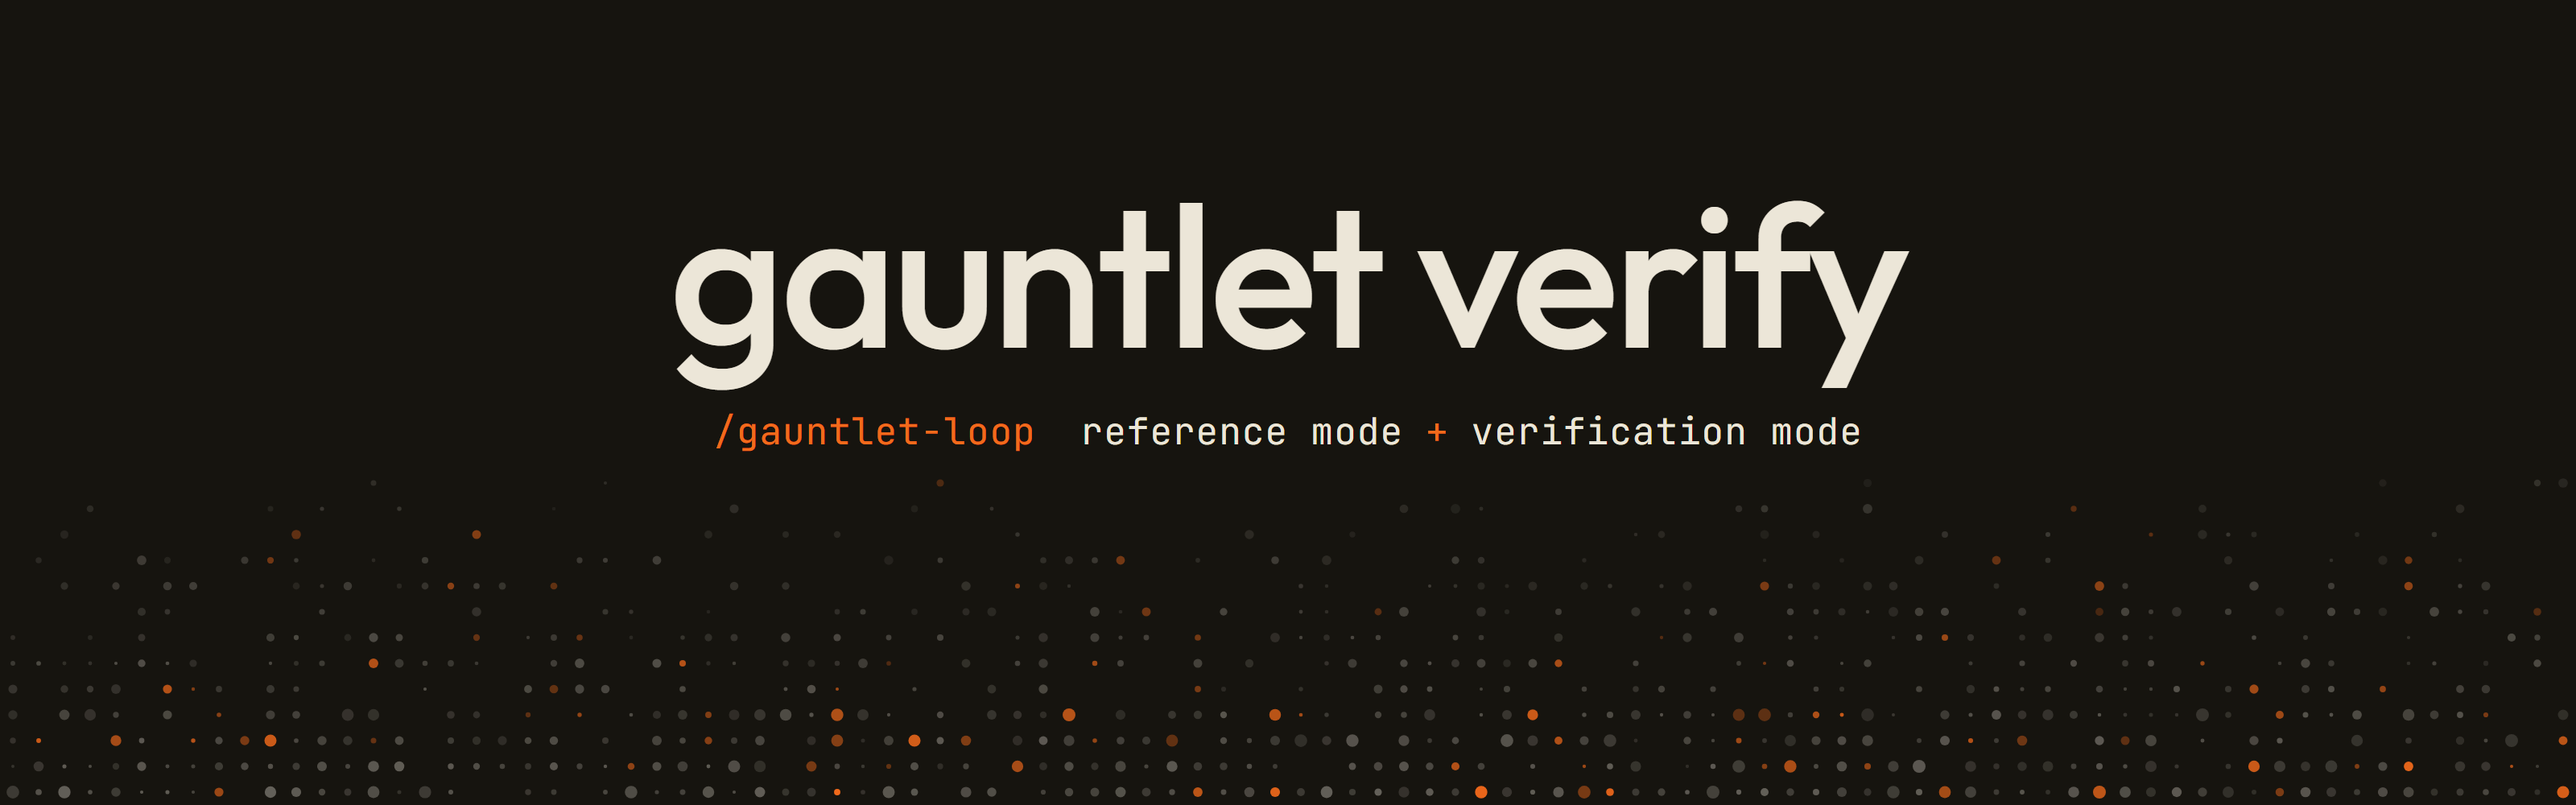
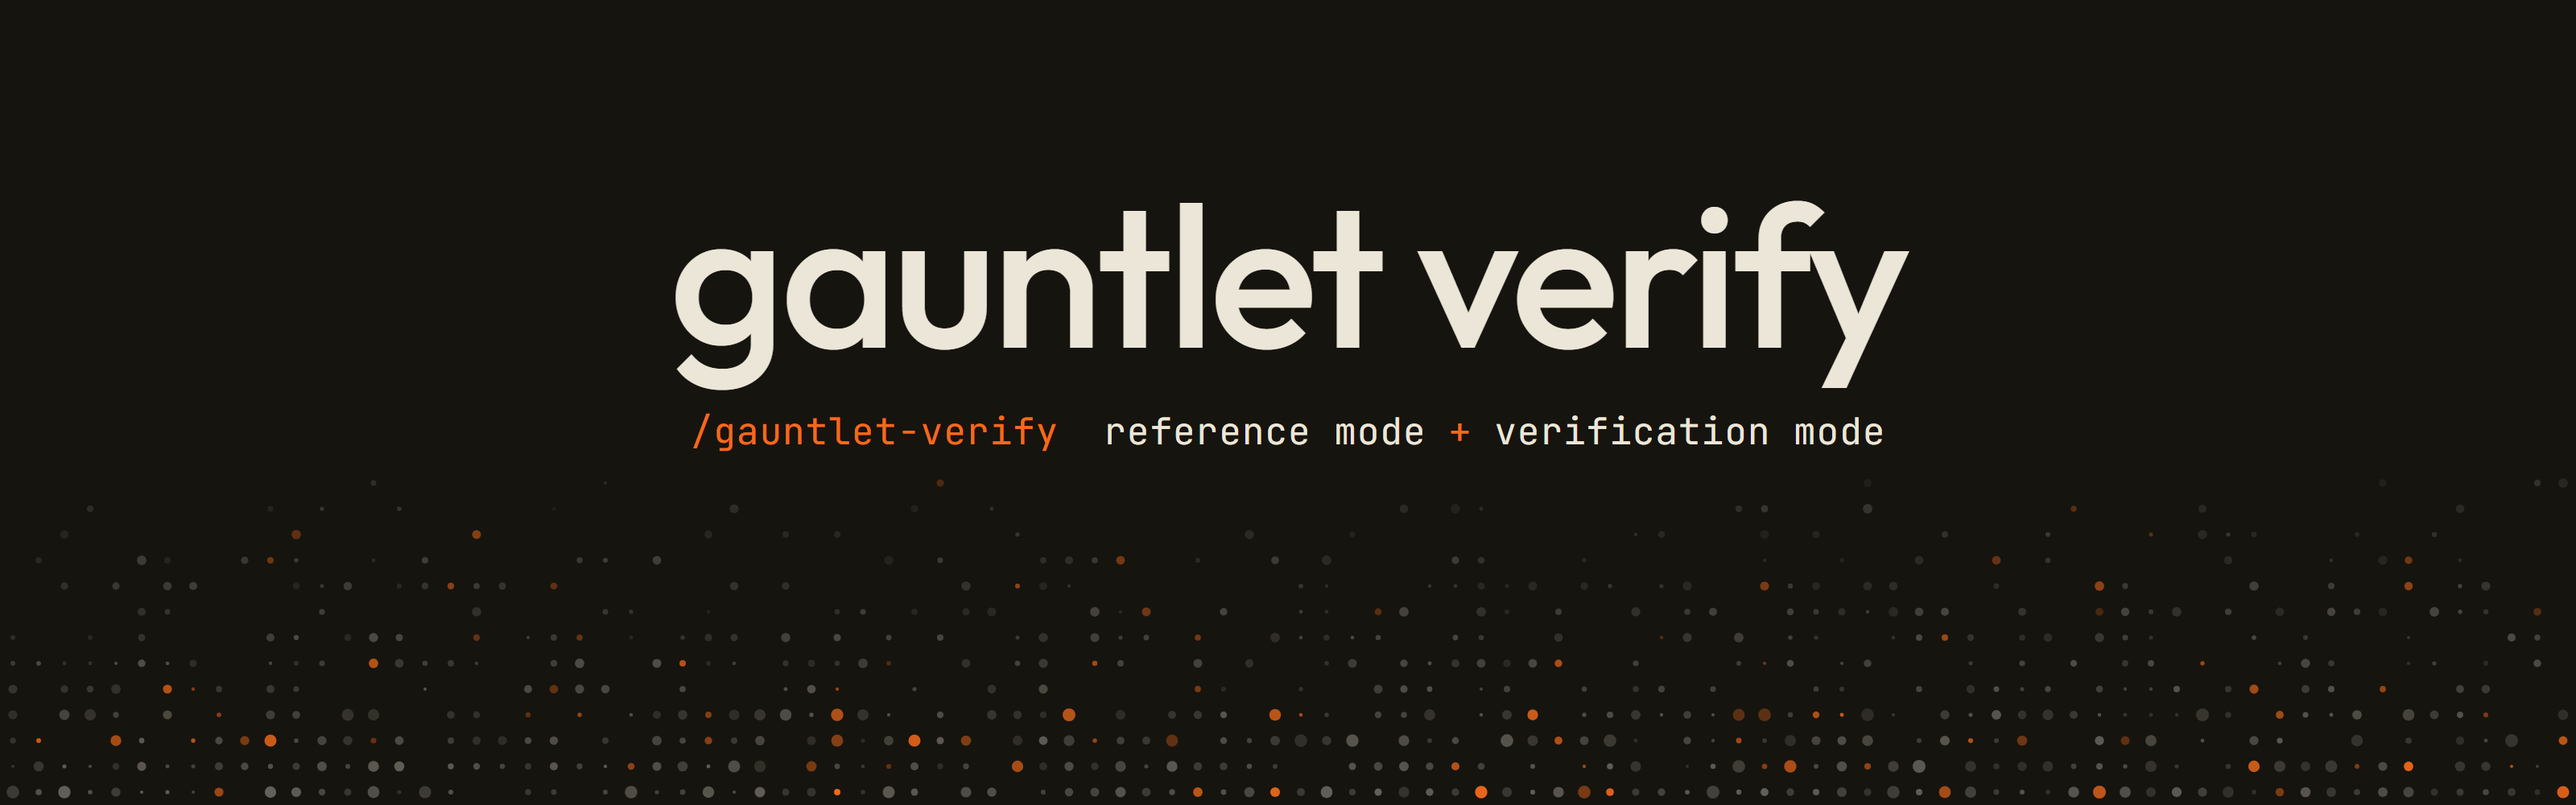
Rename the skill to gauntlet-verify
The skill folder, frontmatter name, and command now match the repo, so
the skill installs beside upstream's gauntlet-loop instead of replacing
it. README install commands, the upstream comparison, the banner, and
the changelog follow the rename.

Changed region(s): [[0.25, 0.527, 0.75, 0.558]]

diff --git a/assets/src/banner.html b/assets/src/banner.html
@@ -20,7 +20,7 @@
 </head>
 <body>
   <div class="title">gauntlet verify</div>
-  <div class="modes"><i class="cmd">/gauntlet-loop</i><b>reference mode</b><i>+</i><b>verification mode</b></div>
+  <div class="modes"><i class="cmd">/gauntlet-verify</i><b>reference mode</b><i>+</i><b>verification mode</b></div>
   <canvas id="c" width="3200" height="420"></canvas>
 <script>
   // Deterministic dot field: gray for claims that survived, orange for kills.

diff --git a/README.md b/README.md
@@ -15,7 +15,7 @@ The Gauntlet Loop is [Matt Shumer's](https://github.com/mshumer) technique. This
 
 It needs an agent that can run subagents or fresh contexts (sequential works), a browser or screenshot tool when the reference is a live page, and web access for verification mode. One full-formation round, measured once, used about 325k subagent tokens, so the skill writes a ceiling before it spends.
 
-The skill folder is named `gauntlet-loop`, the same as upstream, so install one or the other. Copying this folder over an upstream install replaces it. If one copy is in `~/.claude/skills` and the other in a project's `.claude/skills`, Claude Code runs the personal one.
+The skill is named `gauntlet-verify`, so it installs beside upstream's `gauntlet-loop` without replacing it. Keep only one of the two enabled, or both may answer the same request.
 
 ```bash
 git clone https://github.com/EauDoon/gauntlet-verify
@@ -24,25 +24,25 @@ git clone https://github.com/EauDoon/gauntlet-verify
 For every project (personal skills):
 
 ```bash
-mkdir -p ~/.claude/skills && cp -r gauntlet-verify/.claude/skills/gauntlet-loop ~/.claude/skills/
+mkdir -p ~/.claude/skills && cp -r gauntlet-verify/.claude/skills/gauntlet-verify ~/.claude/skills/
 ```
 
 For one project:
 
 ```bash
-mkdir -p your-project/.claude/skills && cp -r gauntlet-verify/.claude/skills/gauntlet-loop your-project/.claude/skills/
+mkdir -p your-project/.claude/skills && cp -r gauntlet-verify/.claude/skills/gauntlet-verify your-project/.claude/skills/
 ```
 
-For the Claude apps, turn on code execution, zip the `gauntlet-loop` folder itself so the folder sits at the zip root, and upload the zip under Customize > Skills. The apps trigger it from its description.
+For the Claude apps, turn on code execution, zip the `.claude/skills/gauntlet-verify` folder itself so the folder sits at the zip root, and upload the zip under Customize > Skills. The apps trigger it from its description.
 
 ```bash
-cd gauntlet-verify/.claude/skills && zip -r gauntlet-loop.zip gauntlet-loop
+cd gauntlet-verify/.claude/skills && zip -r gauntlet-verify.zip gauntlet-verify
 ```
 
 In Claude Code, call it by name or just work. It fires on its own when a build in progress falls short of a named reference, and on heavy research where being wrong costs money or reputation, or the result feeds a public statement or a decision someone will act on.
 
 ```
-/gauntlet-loop build me a pricing page as good as Linear's
+/gauntlet-verify build me a pricing page as good as Linear's
 ```
 
 ```
@@ -145,11 +145,12 @@ Light-formation costs stay estimates, and full verification mode stays unmeasure
 | Spend | Fan out every time; a budget line only if the user names one | Light or full formation set by stakes; a ceiling always written first |
 | Stop | Ours wins the blind comparison, or the user stops | Only identity tells remain, the delta stops, the user stops, or the ceiling parks it |
 | Memory | None | One log line per run, so estimates become measurements |
+| Skill name | `gauntlet-loop` | `gauntlet-verify`, so it does not overwrite upstream |
 
 ## Repo layout
 
 ```
-.claude/skills/gauntlet-loop/
+.claude/skills/gauntlet-verify/
 └── SKILL.md              # the whole skill, one file
 .github/workflows/
 └── check.yml             # runs the check on pushes to main and on pull requests

diff --git a/.claude/skills/gauntlet-verify/SKILL.md b/.claude/skills/gauntlet-verify/SKILL.md
@@ -1,11 +1,11 @@
 ---
-name: gauntlet-loop
+name: gauntlet-verify
 description: "Build-to-a-bar loop and isolated verifier formation for work that cannot be wrong. Use WHENEVER a build misses a named bar: \"as good as X\", \"AAA quality\", \"it still looks like an LLM made it\", \"do another pass\"; if no shipped artifact is named, ask. Use UNPROMPTED on heavy research when being wrong costs money or reputation, or it feeds a public statement or decision. Not Gauntlet the DeFi risk manager. Runs mid-build, not on finished work."
 ---
 
-# Gauntlet Loop
+# Gauntlet Verify
 
-The loop for work that cannot afford to be mediocre or wrong, in two modes. Reference mode drives an unfinished build toward a specific shipped artifact whose bar cannot be written down. Verification mode fields isolated verifiers over heavy research whose facts must be correct without fail. This skill owns the formations and the loop, not the domain: a research method says what must be true, a design or deck skill supplies the domain reference, a routing layer picks the models, and a rubric review closes the finished artifact at ship. Where one of those neighbors is not installed, do its job inline and say so.
+The Gauntlet Loop for work that cannot afford to be mediocre or wrong, in two modes. Reference mode drives an unfinished build toward a specific shipped artifact whose bar cannot be written down. Verification mode fields isolated verifiers over heavy research whose facts must be correct without fail. This skill owns the formations and the loop, not the domain: a research method says what must be true, a design or deck skill supplies the domain reference, a routing layer picks the models, and a rubric review closes the finished artifact at ship. Where one of those neighbors is not installed, do its job inline and say so.
 
 A **seat** is one isolated agent role: builder, critic, judge, or verifier. A **formation** is how many seats a job gets. A **ceiling** is the budget in rounds or tokens, written down before any isolated seat is spawned. A **tell** is what gave the attempt away to a judge.
 

diff --git a/CHANGELOG.md b/CHANGELOG.md
@@ -2,6 +2,10 @@
 
 Dates are DD-MM-YYYY. Upstream dates are the upstream author's local time (UTC+10).
 
+## 18-09-2026, skill renamed
+
+- The skill is now `gauntlet-verify`, matching the repo: the folder is `.claude/skills/gauntlet-verify` and the command is `/gauntlet-verify`. It installs beside upstream's `gauntlet-loop` instead of replacing it. Anyone who installed this fork as `gauntlet-loop` should delete that folder and copy the new one.
+
 ## 18-09-2026, fork rewrite
 
 The skill now runs the loop in session, instead of writing a paste-ready prompt and offering to run it. These changes were developed and first measured in a private copy from 08-08-2026 and are published here for the first time. Compared with [robonuggets/gauntlet-loop](https://github.com/robonuggets/gauntlet-loop) at `9b1975a`:
